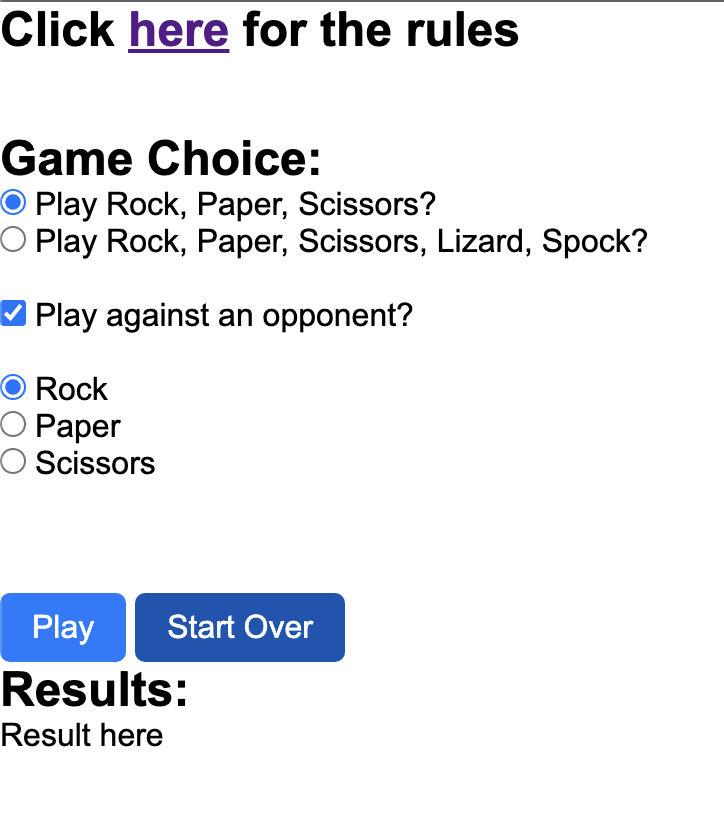
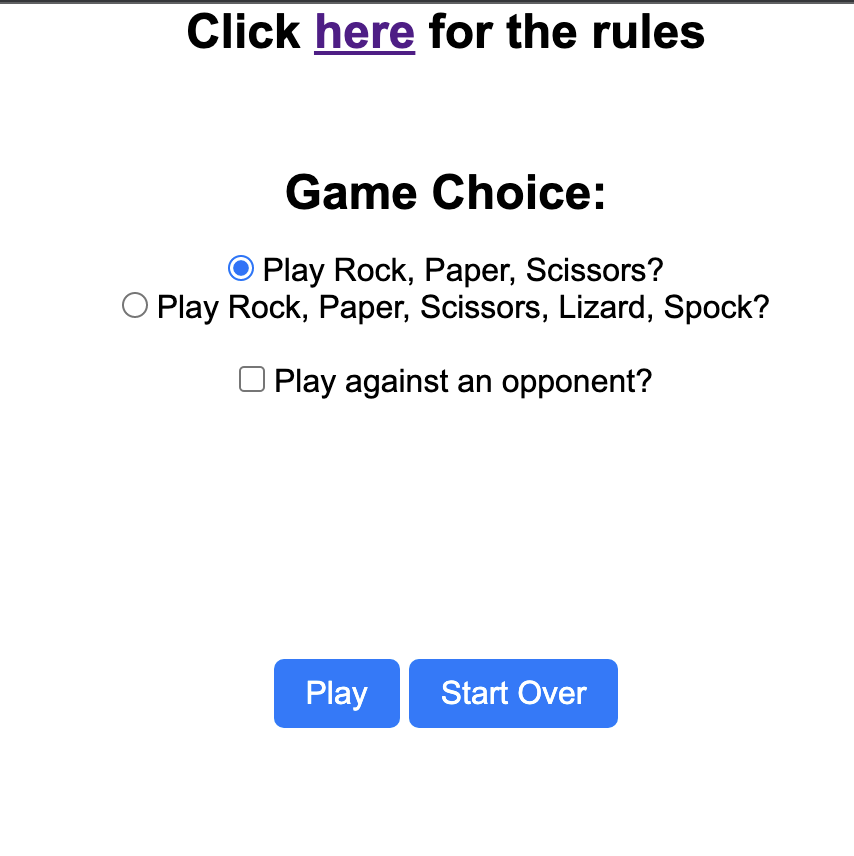
lastest

diff --git a/lib/rpsls.js b/lib/rpsls.js
@@ -1,83 +1,82 @@
 export {rps, rpsls}
 
-function rps(playerMove){
-    const moves = ['rock', 'paper', 'scissors'];
-    const random = math.floor(math.random() * moves.length);
+function rps(playerAction){
+    const possibleMoves = ['rock', 'paper', 'scissors'];
+    const randomIndex = Math.floor(Math.random() *  possibleMoves.length);
 
-    if(playerMove == undefined){
-        return {
-            player: moves[random]
+    if(playerAction === undefined){
+        return{
+            player: possibleMoves[randomIndex]
         };
-    }else if (!moves.includes(playerMove.toLowerCase())){
-        console.error('Error: wrong input')
+    } else if (!possibleMoves.includes(playerAction.toLowerCase())){
+        console.error('Error: Player move not included in move list, Available moves are rock, paper, or scissors.')
         throw new RangeError();
-    } else {
-        const computerMove = moves[random];
+    } else{
+        const ComputerAction = possibleMoves[randomIndex];
         let result;
-
-        switch(playerMove.toLowerCase()){
+        switch(playerAction.toLowerCase()){
             case 'rock':
-                result=(computerMove == 'rock') ? 'tie':
-                (computerMove == 'paper') ? 'lose' : 'win';
+                result = (ComputerAction === 'rock') ? 'tie' :
+                         (ComputerAction === 'paper') ? 'lose' : 'win'; //if computer throws paper they lose
                 break;
             case 'paper':
-                result=(computerMove == 'paper') ? 'tie':
-                (computerMove == 'scissors') ? 'lose' : 'win';
+                result = (ComputerAction === 'paper') ? 'tie' :
+                         (ComputerAction === 'scissors') ? 'lose' : 'win';
                 break;
             case 'scissors':
-                result=(computerMove == 'scissors') ? 'tie':
-                (computerMove == 'rock') ? 'lose' : 'win';
+                result = (ComputerAction === 'scissors') ? 'tie' :
+                         (ComputerAction === 'rock') ? 'lose' : 'win';
                 break;
         }
-        return {
-            player: playerMove.toLowerCase(),
-            opponent: computerMove,
+        return{
+            player: playerAction.toLowerCase(),
+            opponent: ComputerAction,
             result: result
         };
     }
 }
-function rpsls(playerMove){
-    const moves = ['rock', 'paper', 'scissors', 'lizard', 'spock'];
-    const random = math.floor(math.random() * moves.length);
 
-    if(playerMove == undefined){
-        return {
-            player: moves[random]
+function rpsls(playerAction){
+    const possibleMoves = ['rock', 'paper', 'scissors', 'lizard', 'spock'];
+    const randomIndex = Math.floor(Math.random() *  possibleMoves.length);
+
+    if(playerAction === undefined){
+        return{
+            player: possibleMoves[randomIndex]     
         };
-    }else if (!moves.includes(playerMove.toLowerCase())){
-        console.error('Error: wrong input')
+    } else if (!possibleMoves.includes(playerAction.toLowerCase())){
+        console.error('Error: Player move not included in move list, Available moves are rock, paper, scissors, lizard, or spock.')
         throw new RangeError();
-    } else {
-        const computerMove = moves[random];
+    } else{
+        const ComputerAction = possibleMoves[randomIndex];
         let result;
 
-        switch(playerMove.toLowerCase()){
+        switch(playerAction.toLowerCase()){
             case 'rock':
-                result=(computerMove == 'rock') ? 'tie':
-                (computerMove == 'paper' || computerMove == 'spock') ? 'lose' : 'win';
+                result = (ComputerAction === 'rock') ? 'tie' :
+                         (ComputerAction === 'paper' || ComputerAction === 'spock') ? 'lose' : 'win';
                 break;
             case 'paper':
-                result=(computerMove == 'paper') ? 'tie':
-                (computerMove == 'scissors' || computerMove == 'lizard') ? 'lose' : 'win';
+                result = (ComputerAction === 'paper') ? 'tie' :
+                         (ComputerAction === 'scissors' || ComputerAction === 'lizard') ? 'lose' : 'win';
                 break;
             case 'scissors':
-                result=(computerMove == 'scissors') ? 'tie':
-                (computerMove == 'rock' ||  computerMove == 'spock') ? 'lose' : 'win';
+                result = (ComputerAction === 'scissors') ? 'tie' :
+                         (ComputerAction === 'rock' || ComputerAction === 'spock') ? 'lose' : 'win';
                 break;
             case 'lizard':
-                result=(computerMove == 'lizard') ? 'tie':
-                (computerMove == 'rock' ||  computerMove == 'scissors') ? 'lose' : 'win';
+                result = (ComputerAction === 'lizard') ? 'tie' :
+                         (ComputerAction === 'rock' || ComputerAction === 'scissors') ? 'lose' : 'win';
                 break;
             case 'spock':
-                result=(computerMove == 'spock') ? 'tie':
-                (computerMove == 'paper' ||  computerMove == 'lizard') ? 'lose' : 'win';
-                break;
+                result = (ComputerAction === 'spock') ? 'tie' :
+                         (ComputerAction === 'paper' || ComputerAction === 'lizard') ? 'lose' : 'win';
+                break;      
         }
-        return {
-            player: playerMove.toLowerCase(),
-            opponent: computerMove,
+        return{
+            player: playerAction.toLowerCase(),
+            opponent: ComputerAction,
             result: result
         };
     }
-
 }

diff --git a/server.js b/server.js
@@ -63,6 +63,67 @@ const app = express()
 const port = args.port || args.p || process.env.PORT || 8080
 // Load app middleware here to serve routes, accept data requests, etc.
 //
+
+//This connects our api to the HTML
+app.use(express.static('public'));
+app.get('/', (req, res) => {
+  res.sendFile(__dirname + '/public/index.html');
+});
+
+//IMPORT LIB for rock paper scissor here (OR) or copy and paste rock paper script here 
+
+import { rps, rpsls } from '/Users/williamgarcia-sanchez/Documents/workspace/e02-Wixx19/lib/rpsls.js';
+
+//LOAD UP API ROUTES BELOW
+
+app.use(express.json());
+app.use(express.urlencoded({extended: true}));
+
+
+app.get("/app/", (req, res) => {
+    res.status(200).send('200 OK');
+})
+
+app.get("/app/rps/", (req, res) => {
+    res.status(200).send(JSON.stringify(rps()));
+})
+
+app.get("/app/rpsls/", (req, res) => {
+    res.status(200).send(JSON.stringify(rpsls()));
+})
+
+//queries
+app.get("/app/rps/play/", (req, res) => {
+    res.status(200).send(JSON.stringify(rps(req.query.shot)));
+})
+
+app.get("/app/rpsls/play/", (req, res) => {
+    res.status(200).send(JSON.stringify(rpsls(req.query.shot)));
+})
+
+// accept JSON request bodies
+app.post("/app/rps/play/", (req, res) => {
+    res.status(200).send(JSON.stringify(rps(req.body.shot)));
+})
+
+app.post("/app/rpsls/play/", (req, res) => {
+    res.status(200).send(JSON.stringify(rpsls(req.body.shot)));
+})
+
+//url (parameter) endpoint
+app.get("/app/rps/play/:shot", (req, res) => {
+    res.status(200).send(JSON.stringify(rps(req.params.shot)));
+})
+
+app.get("/app/rpsls/play/:shot", (req, res) => {
+    res.status(200).send(JSON.stringify(rpsls(req.params.shot)));
+})
+
+app.get("*", (req, res) => {
+    res.status(404).send("404 NOT FOUND");
+})
+
+
 // Create and update access log
 // The morgan format below is the Apache Foundation combined format but with ISO8601 dates
 app.use(morgan(':remote-addr - :remote-user [:date[iso]] ":method :url HTTP/:http-version" :status :res[content-length] ":referrer" ":user-agent"',
@@ -71,96 +132,6 @@ app.use(morgan(':remote-addr - :remote-user [:date[iso]] ":method :url HTTP/:htt
 // Serve static files
 const staticpath = args.stat || args.s || process.env.STATICPATH || path.join(__dirname, 'public')
 app.use('/', express.static(staticpath))
-
-
-/**
- * a04 code
- */
-
-
-import {rps, rpsls} from "./lib/rpsls.js";
-app.use(express.json());
-app.use(express.urlencoded({extended: true}));
-
-app.get('/app', (req, res) => {
-    res.status(200).send('200 OK').end();
-});
-
-/**
- * Random rps shot
- */
-app.get('/app/rps', (req, res) => {
-    res.status(200).send(JSON.stringify(rps(req.body.shot))).end();
-})
-
-/**
- * Random rpsls shot
- */
-app.get('/app/rpsls', (req, res) => {
-    res.status(200).send(JSON.stringify(rpsls(req.body.shot))).end();
-})
-
-/**
- * URLEncoded
- * Note: This is a GET
- * Example: http://localhost:5000/app/rps/play?shot=rock
- */
-app.get('/app/rps/play', (req, res) => {
-    res.status(200).send(JSON.stringify(rps(req.query.shot))).end();
-})
-
-/**
- * URLEncoded
- * Note: This is a GET
- * Example: http://localhost:5000/app/rps/play?shot=spock
- */
-app.get('/app/rpsls/play', (req, res) => {
-    res.status(200).send(JSON.stringify(rpsls(req.query.shot))).end();
-})
-
-/**
- * JSON
- * Note: This is a POST
- */
-app.post('/app/rps/play', (req, res) => {
-    res.status(200).send(JSON.stringify(rps(req.body.shot))).end();
-})
-
-/**
- * JSON
- * Note: This is a POST
- */
-app.post('/app/rpsls/play', (req, res) => {
-    res.status(200).send(JSON.stringify(rpsls(req.body.shot))).end();
-})
-
-/**
- * /:shot syntax allows for that field to be parsed
- */
-app.get('/app/rps/play/:shot', (req, res) => {
-    res.status(200).send(JSON.stringify(rps(req.params.shot))).end();
-})
-
-/**
- * /:shot syntax allows for that field to be parsed
- */
-app.get('/app/rpsls/play/:shot', (req, res) => {
-    res.status(200).send(JSON.stringify(rpsls(req.params.shot))).end();
-})
-
-/**
- * Default (non-existent) endpoint
- */
-app.all('*', (req, res) => {
-    res.status(404).send('404 NOT FOUND').end();
-})
-
-
-/**
- * End a04 code
- */
-
-
 // Create app listener
 const server = app.listen(port)
 // Create a log entry on start

diff --git a/public/rules.html b/public/rules.html
@@ -1,19 +1,24 @@
 <!DOCTYPE html>
+
+<!-- Link to your script file(s) and CSS in here somewhere -->
+<link rel="stylesheet" href="styles.css">
+<script src="scripts.js"></script>
+
 <html lang="en">
-    <head>
+    <head class = "rul">
         <title>Rules for RPSLS</title>
         <meta charset="UTF-8">
         <meta http-equiv="X-UA-Compatible" content="IE=edge">
         <meta name="viewport" content="width=device-width, initial-scale=1.0">
     </head>
     <body>
-        <h1>Rules for Rock Paper Scissors</h1>
+        <h1>Rules for Rock Paper Scissors</h1> <br>
         <ul>
             <li>Scissors CUTS Paper</li>
             <li>Paper COVERS Rock</li>
             <li>Rock CRUSHES Scissors</li>
         </ul>
-        <h1>Rules for the Lizard-Spock Expansion of Rock Paper Scissors</h1>
+        <h1>Rules for the Lizard-Spock Expansion of Rock Paper Scissors</h1> <br>
         <ul>
             <li>Scissors CUTS Paper</li>
             <li>Paper COVERS Rock</li>

diff --git a/public/styles.css b/public/styles.css
@@ -9,7 +9,7 @@
   body {
     font-family: Arial, sans-serif;
   }
-  
+
   /* Center the content and apply a max-width */
   .container {
     margin: 0 auto;
@@ -18,8 +18,12 @@
   }
   
   /* Add some spacing and center align the text for headings */
-  h1 {
+  h2 {
     margin-bottom: 1rem;
+    text-align: center;
+  }
+
+  div {
     text-align: center;
   }
   
@@ -65,3 +69,17 @@
 .show {
     visibility: visible;
 }
+
+h1 {
+    text-align: center;
+}
+
+ul {
+    text-align: center;
+}
+
+p {
+    text-align: center;
+}
+
+  
